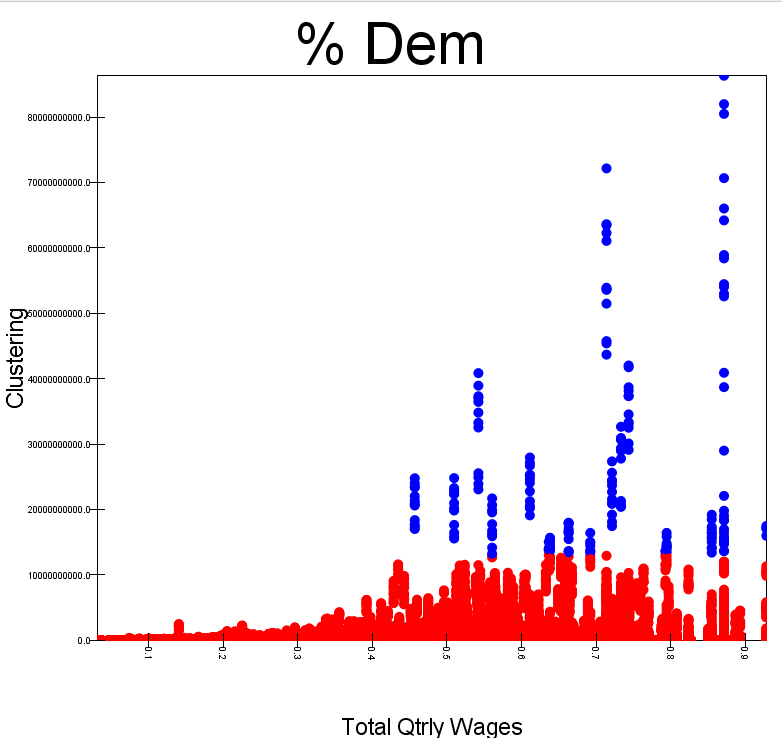
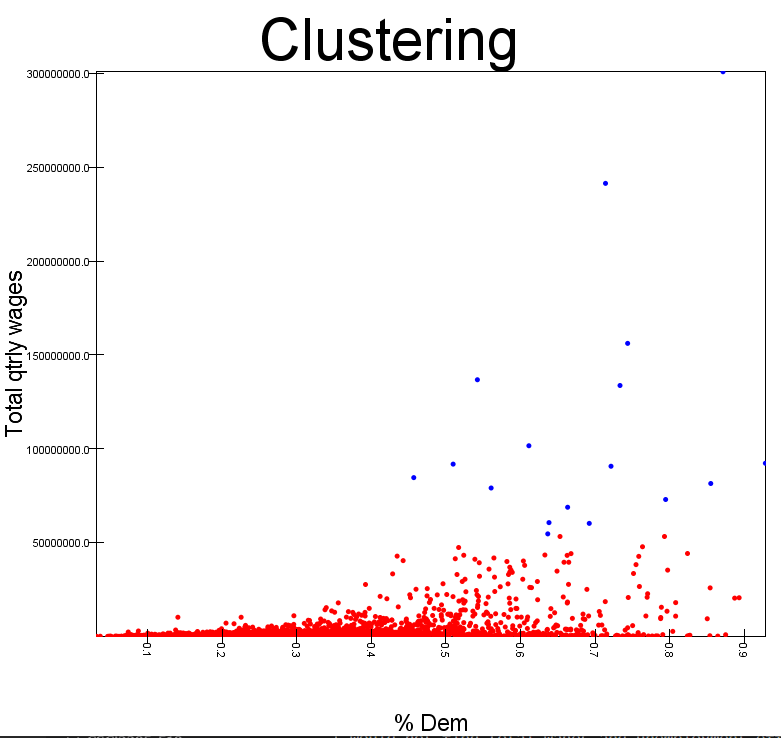
bruh

diff --git a/sparkcluster.md b/sparkcluster.md
@@ -29,3 +29,8 @@
     * General medical and surgical hospitals had $205806016743 in wages
 
 5. Clustering
+
+![aeioaj](src/main/scala/sparkml/qtrlywages.png)
+
+This is from clustering on the average total_qtrly_wages and average month2_emplvl from the fourth quarter of a whole county, i.e. each county has only one data point. I chose month2 and the fourth quarter so we have the unemployment level from November. For the graph, I put per_dem on the x axis to see how well the clusters line up. I arbitrarily chose wages for the y-axis. Seeing that there is no clear break between the red and blue dots on the x axis, I would not find total wages and unemployment effective clustering variables. It is interesting, though, how most of the blue points are past 50% democratic and above $50000000 wages. 
+
